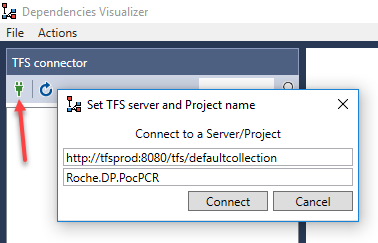
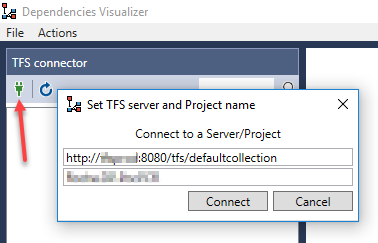
Changes on the README and fix on a doc image

Changed region(s): [[0.1746, 0.6049, 0.4365, 0.749]]

diff --git a/README.md b/README.md
@@ -4,24 +4,34 @@ Item dependency visualization tool, based on [Graphviz](https://www.graphviz.org
 ## Full description
 Tool that allows a graphical visualization of dependencies between items (i.g. nodes on a directed graph) using [Graphviz](https://www.graphviz.org/), without the need of using the [Dot language](https://www.graphviz.org/doc/info/lang.html).
 
+**TFS:** ![Configure TFS](images/tfs_example1.png)
+**CSV:** ![Configure TFS](images/csv_example1.png)
+
 ## How it does it?
 The tool uses different (currently **TFS** and **CSV**) repositories in order to obtain the **Items** (nodes), its **Successors**, **States** and **Tags**.
 
 * **Items**: the "box" with its ID and Title.
 * **Succesors**: the successor (connected with an arrow) "box"
 * **States**: possible states (the default are the TFS ones: _New_, _Approved_, _Committed_, _In Progress_ and _Done_. These are used to color the "box"
-* **Tags**: item tags. These are used to change the shape/line of the "box"
+* **Tags**: item tags. These are used to change the line/color of the line "box"
 
-# Setup 
+# Getting Started
+
+## Prerequisites
+* Windows 7 or 10
+* Install [Graphviz](https://graphviz.gitlab.io/download/)
+   * Annotate the binaries installation path (i.g. C:\Program Files (x86)\Graphviz2.38\bin)
+
 ## Installation
-:information_source: _At some point I will create an installer_
+:construction: _At some point I will create an installer_
 
 Download the binaries (or build the tool yourself)
 
 ## Configuration
+1. Enter the GraphViz path you annotated above on the **appSettings.graphvizPath** tag, on the **depviz.exe.config** file.
+1. Depending on the repository/connector you will use (TFS, CSV, ...), follow the instructions below:
 
-### TFS
-
+## TFS
 1. Open the tool
 1. File -> Select Connector... -> TFS
 1. Configure TFS: ![Configure TFS](images/tfs_config.png)
@@ -30,11 +40,10 @@ Download the binaries (or build the tool yourself)
 
 :information_source: You can also achieve this by editing the **userSettings.tfsUrl** tag, on the **depviz.exe.config** file, before opening **depviz.exe**
 
-### CSV
-
+## CSV
 1. Open the tool
 1. File -> Select Connector... -> CSV
 1. Select CSV file: ![Select CSV file](images/csv_config.png)
 
-
 # Add support for other repositories
+:construction: _You could write your own "connector" (and connect the tool with [Jira](https://www.atlassian.com/software/jira), for example). There will be a wiki soon explaining this._
